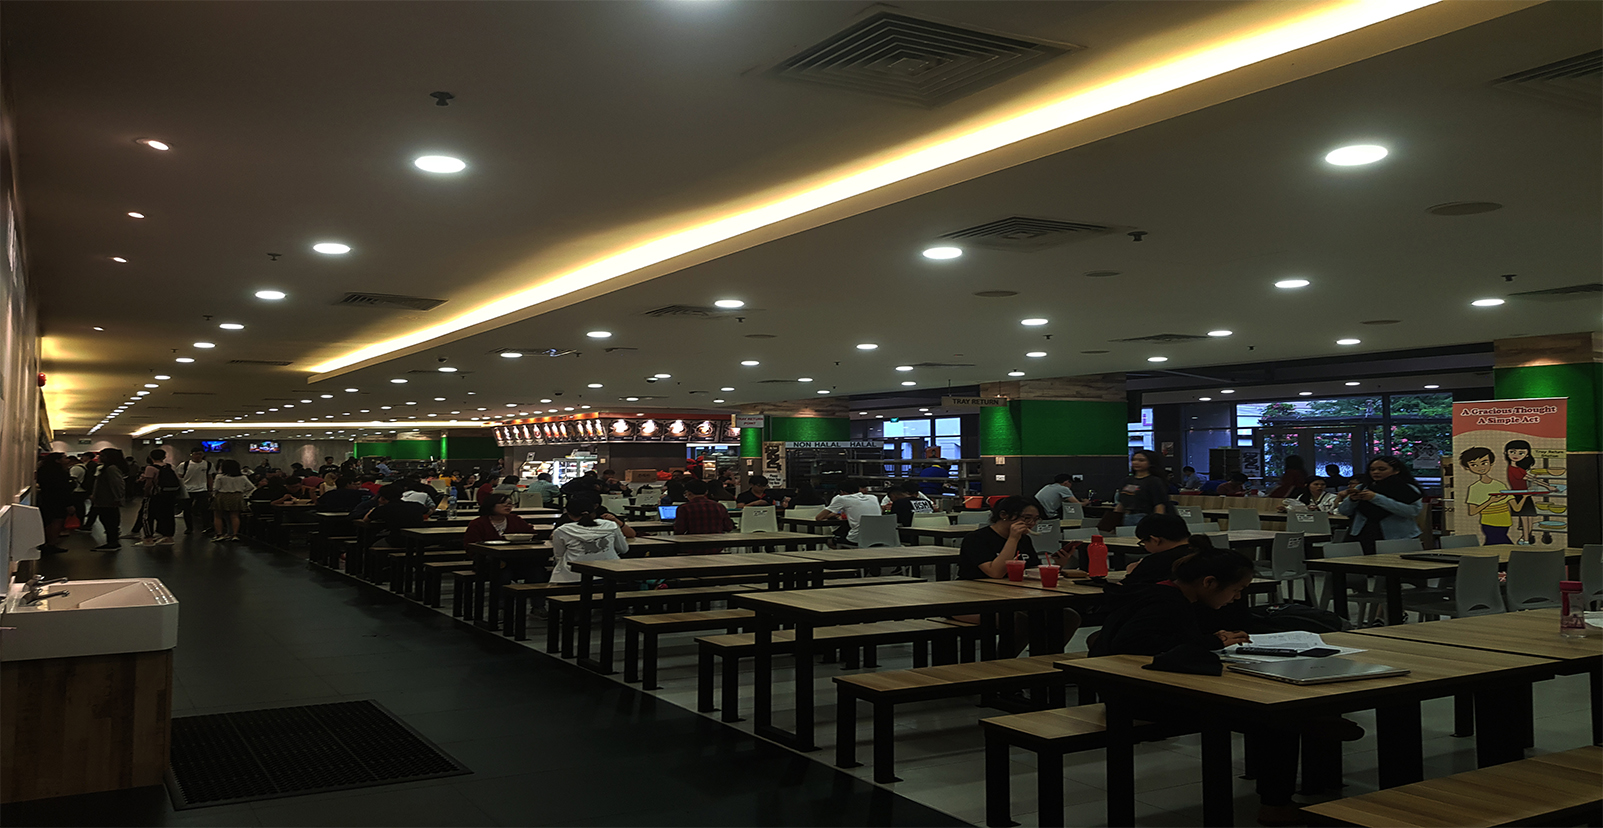
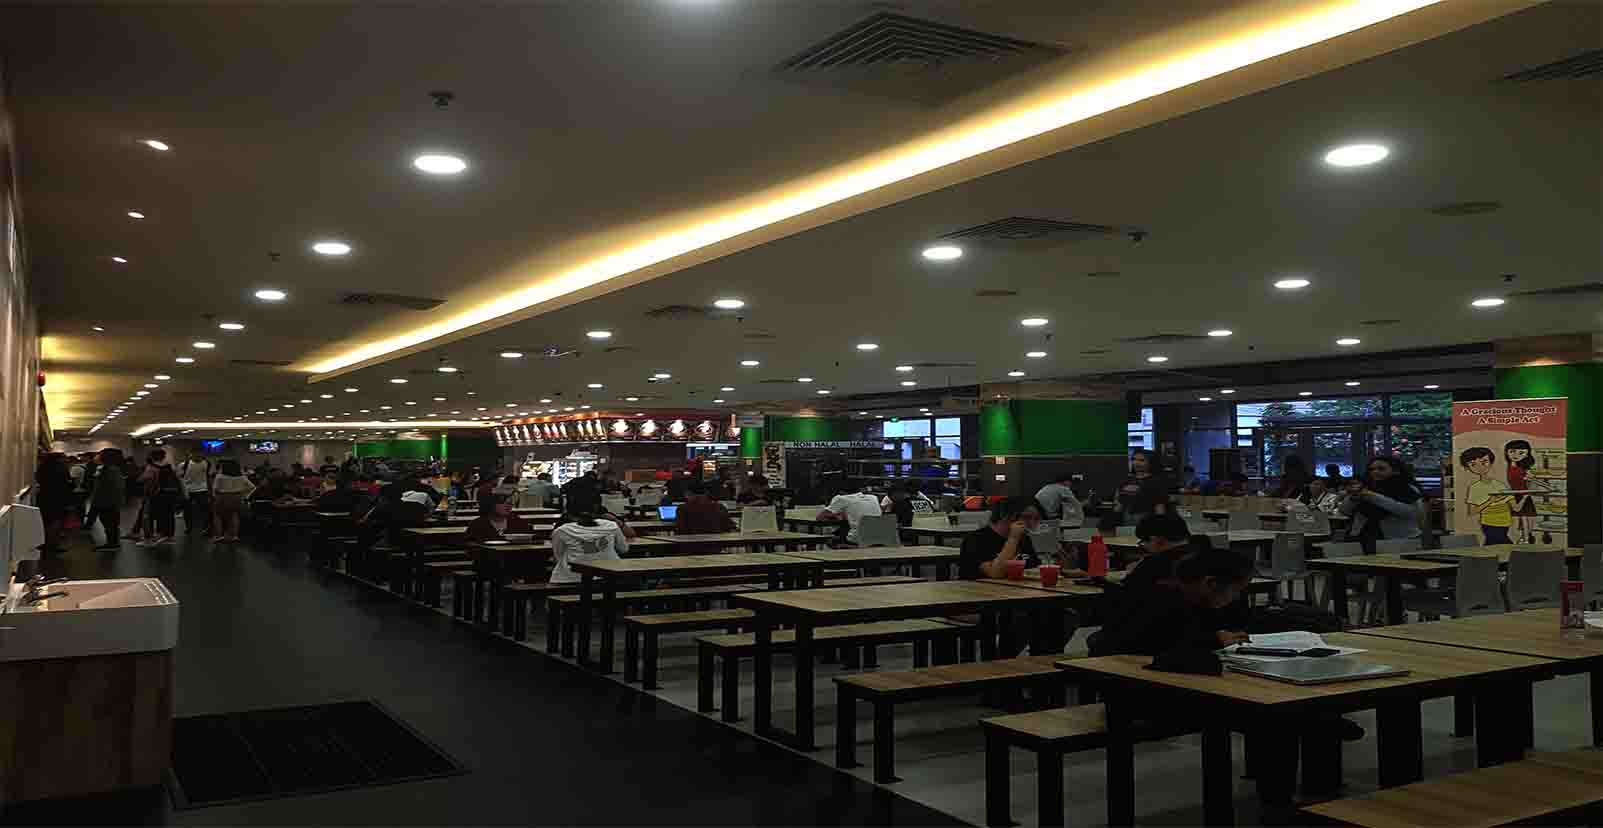
reduced size of pictures

diff --git a/app.js b/app.js
@@ -116,9 +116,10 @@ bot.onText(/\/verify (.+)/, (msg, match) => {
 	// of the message
 
 	var chatId = msg.chat.id;
-	var resp = match[1]; // the captured "whatever"
+	var response = match[1]; // the captured "whatever"
 
-	User.getUserByAdmin(resp).then(user => {
+	
+	User.getUserByAdmin(response).then(user => {
 		User.setTelegram(user.id, chatId);
 	});
 

diff --git a/public/css/nigel/style.css b/public/css/nigel/style.css
@@ -159,7 +159,7 @@ p {
 
 
 .slider {
-  background: url(../../img/nigel/loading.png) no-repeat;
+  background: url(../../img/nigel/loading.jpg) no-repeat;
   background-size: cover;
   min-height: 800px; 
   transition: background-image 1s;}
